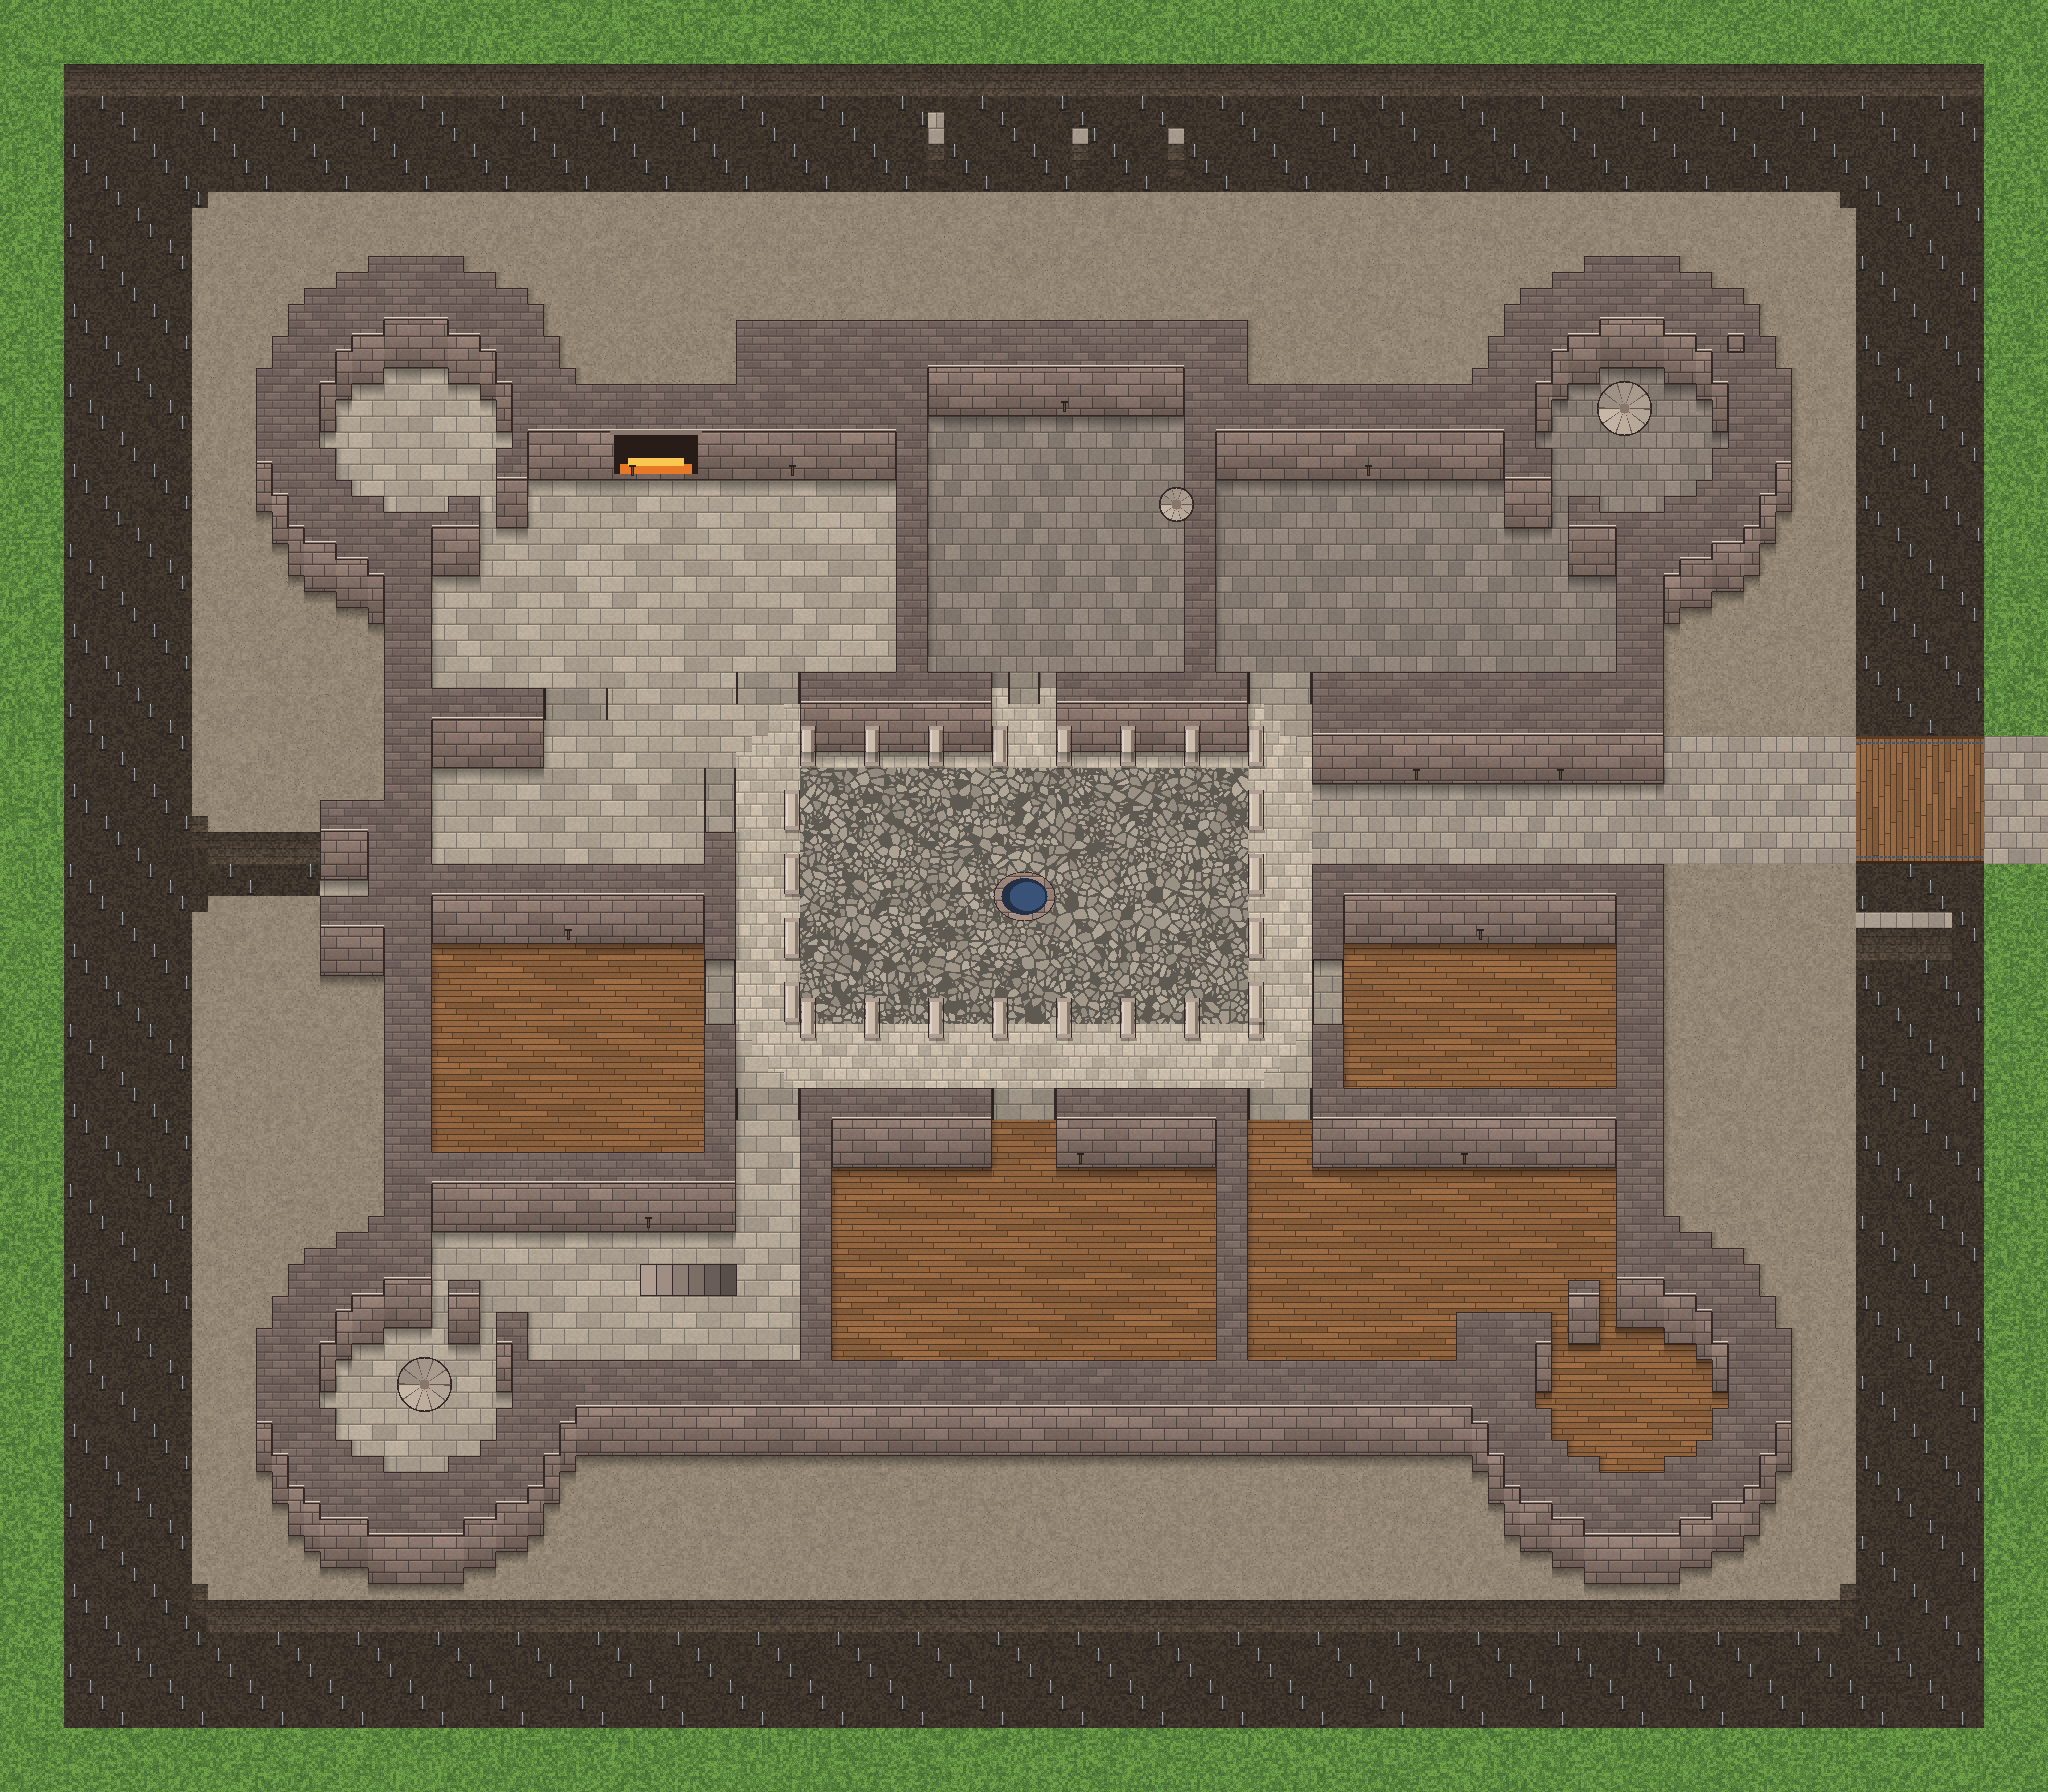
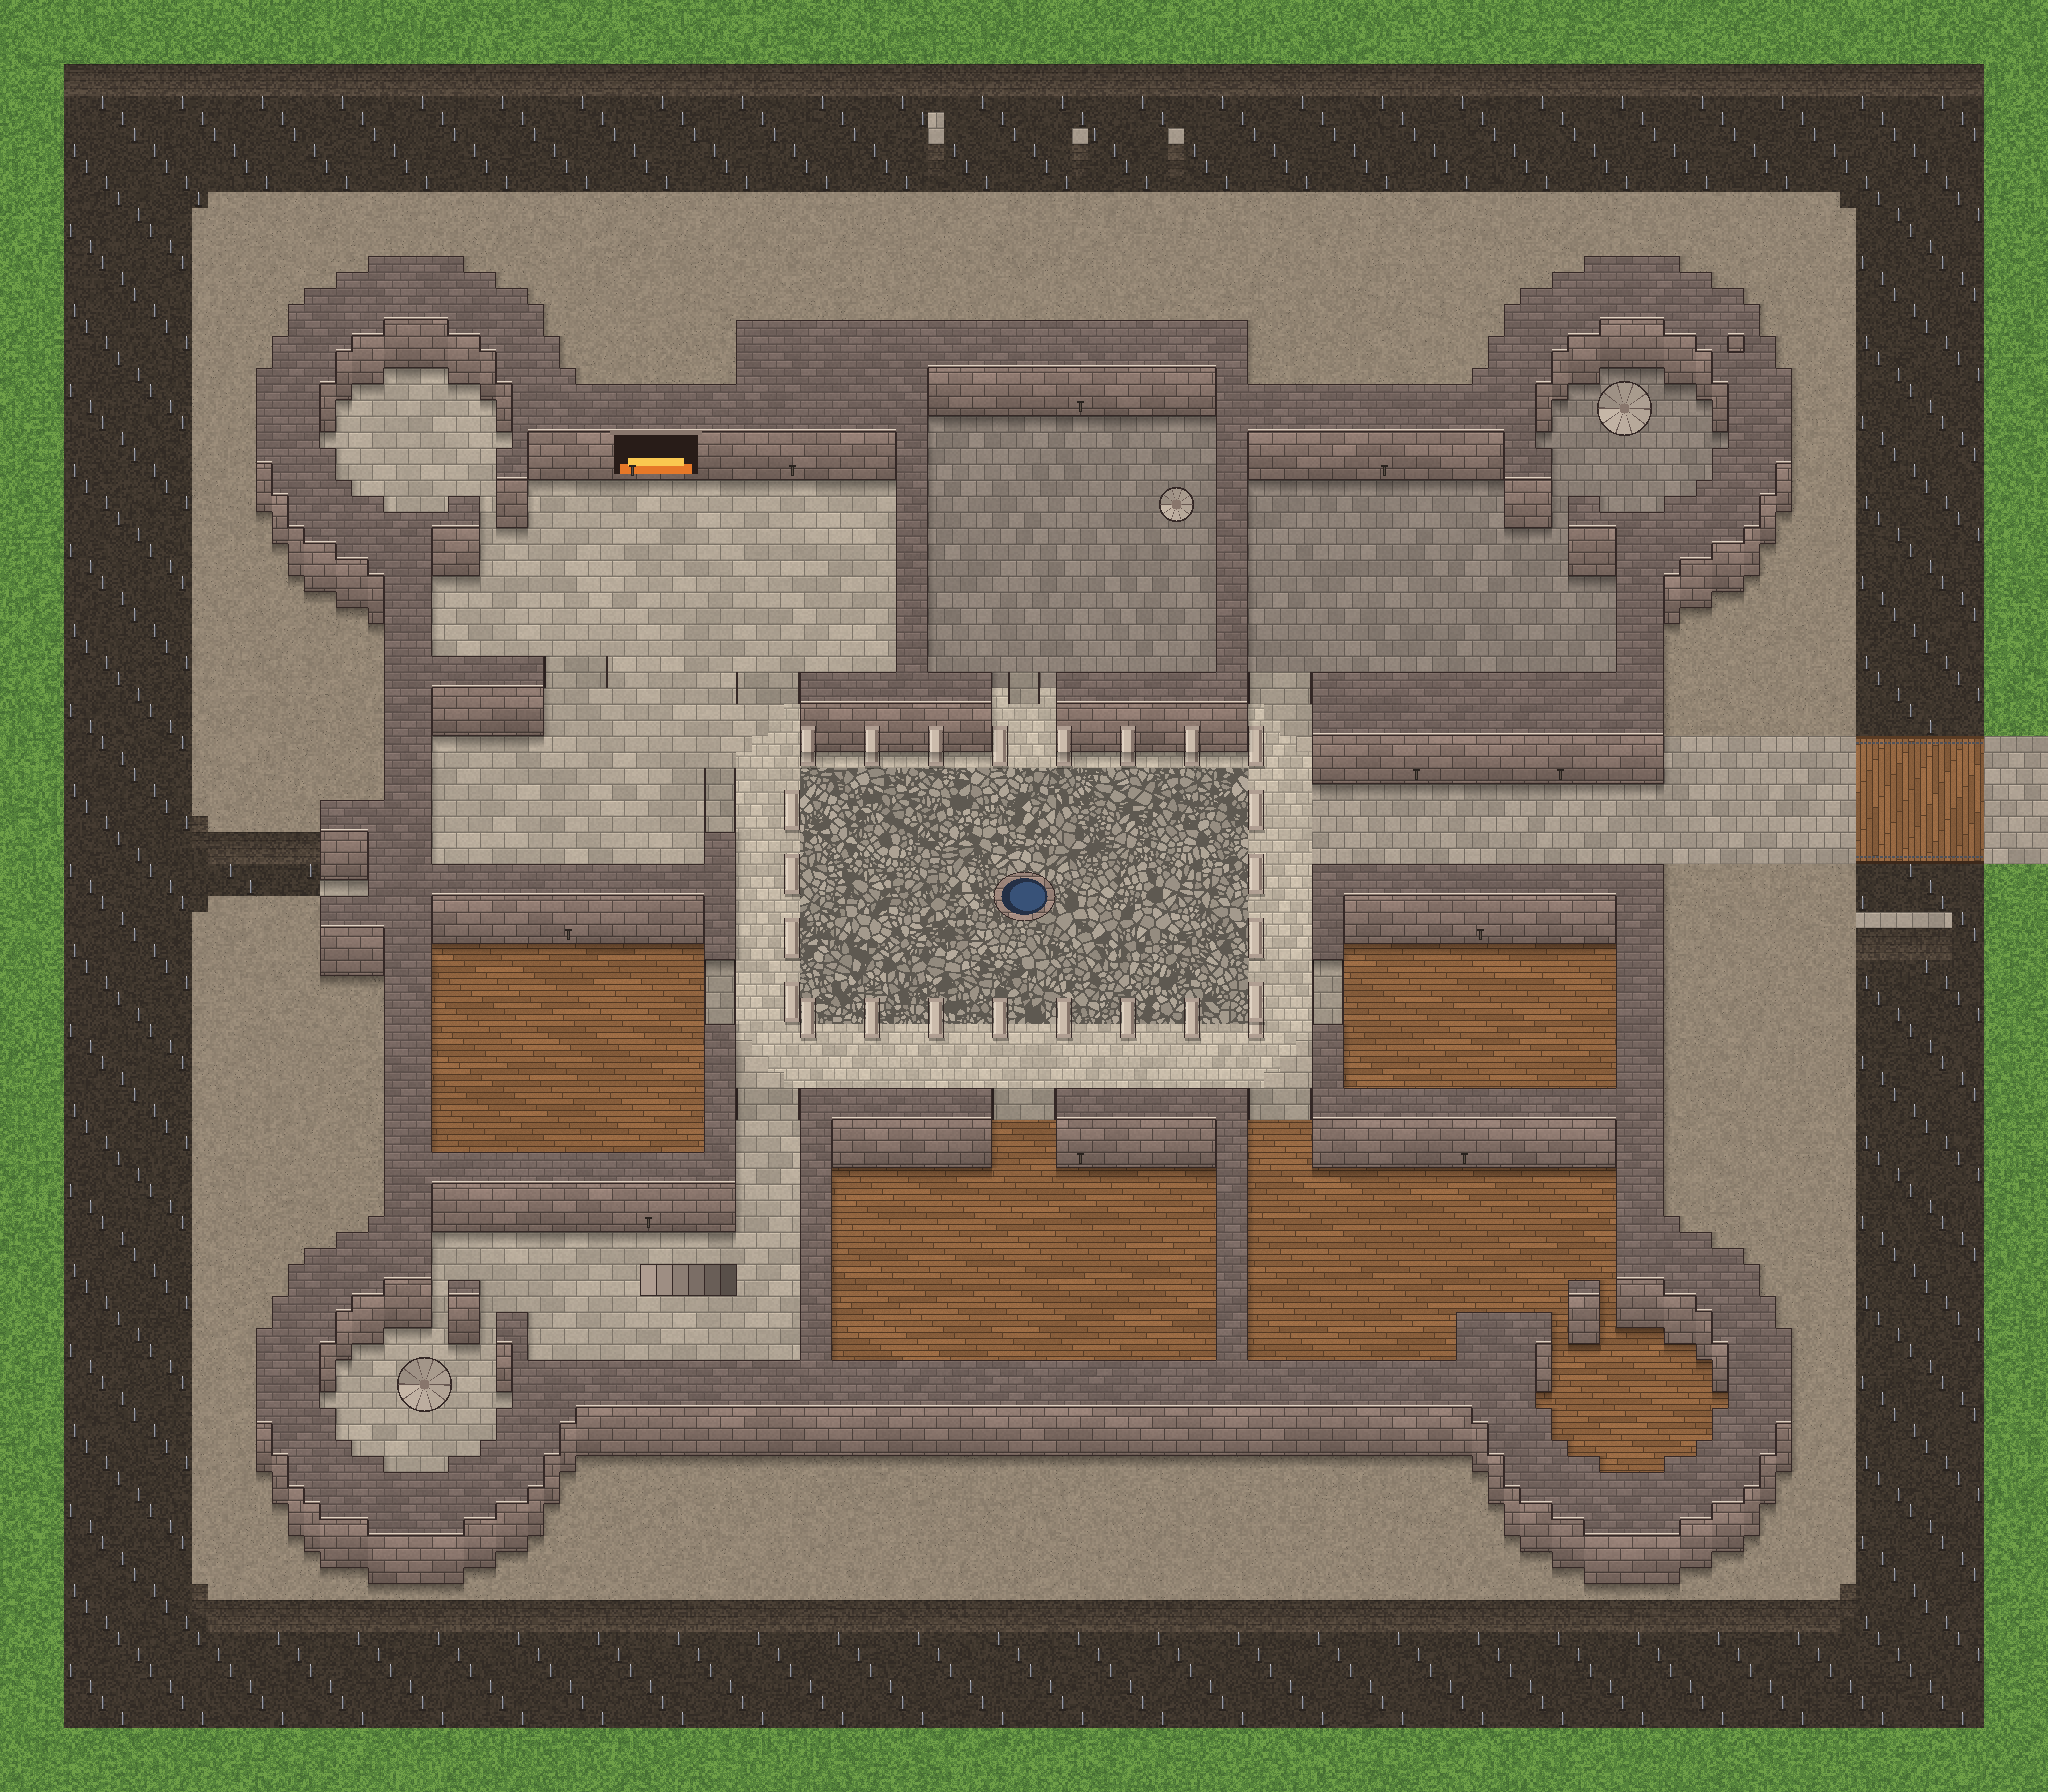
Holdfast GF: armoury east wall 2 tiles east (guardroom smaller); kitchen/pantry wall one tile north of its original line
Claude-Session: https://claude.ai/code/session_01GSamoHXsCumctgS8PFsM3M

Changed region(s): [[0.5625, 0.1875, 0.625, 0.375], [0.1875, 0.3438, 0.2812, 0.4375]]

diff --git a/tools/build_holdfast_gf.py b/tools/build_holdfast_gf.py
@@ -131,12 +131,12 @@ g[68:74, 44:46] = 'wall'; g[70:74, 46:50] = 'room'
 # kitchen grows east into the armoury (wall x 48-49 -> x 52-53), guardroom takes the NE tower's wall block
 g[27:30, 86:94] = 'room'
 # (user) armoury keeps its size (16 tiles) and moves 4 tiles east: kitchen grows east, guardroom shrinks
-g[27:42, 48:56] = 'room'; g[23:42, 56:58] = 'wall'; g[23:42, 58:74] = 'room'; g[23:42, 74:76] = 'wall'
+g[27:42, 48:56] = 'room'; g[23:42, 56:58] = 'wall'; g[23:42, 58:76] = 'room'; g[23:42, 76:78] = 'wall'          # armoury east wall 2 tiles further east (user)
 g[23:27, 46:56] = 'wall'
-# (user) the pantry's north wall (kitchen / pantry, y 42-43) moves one tile south
+# (user) the pantry's north wall (kitchen / pantry, y 42-43) moves one tile north
 for x in range(27, 46):
-    if g[42, x] in ('wall', 'door') and g[44, x] == 'room':
-        g[44, x] = g[43, x]; g[43, x] = g[42, x]; g[42, x] = 'room'
+    if g[42, x] in ('wall', 'door') and g[41, x] == 'room' and g[44, x] == 'room':
+        g[41, x] = g[42, x]; g[42, x] = g[43, x]; g[43, x] = 'room'
 
 # ------------------------------------------------------------------ rooms (for floor style + names)
 floor = np.isin(g, ['room', 'door'])
